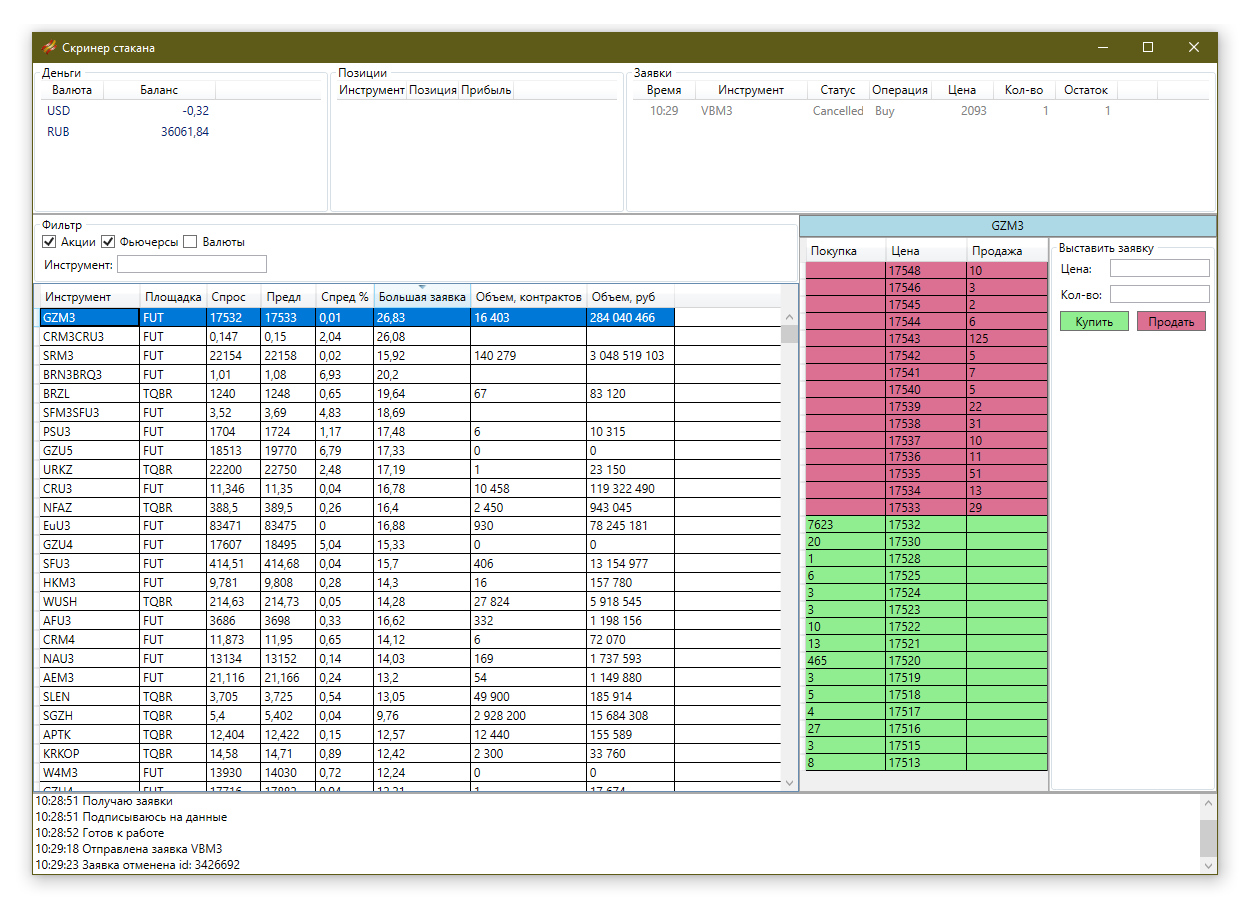
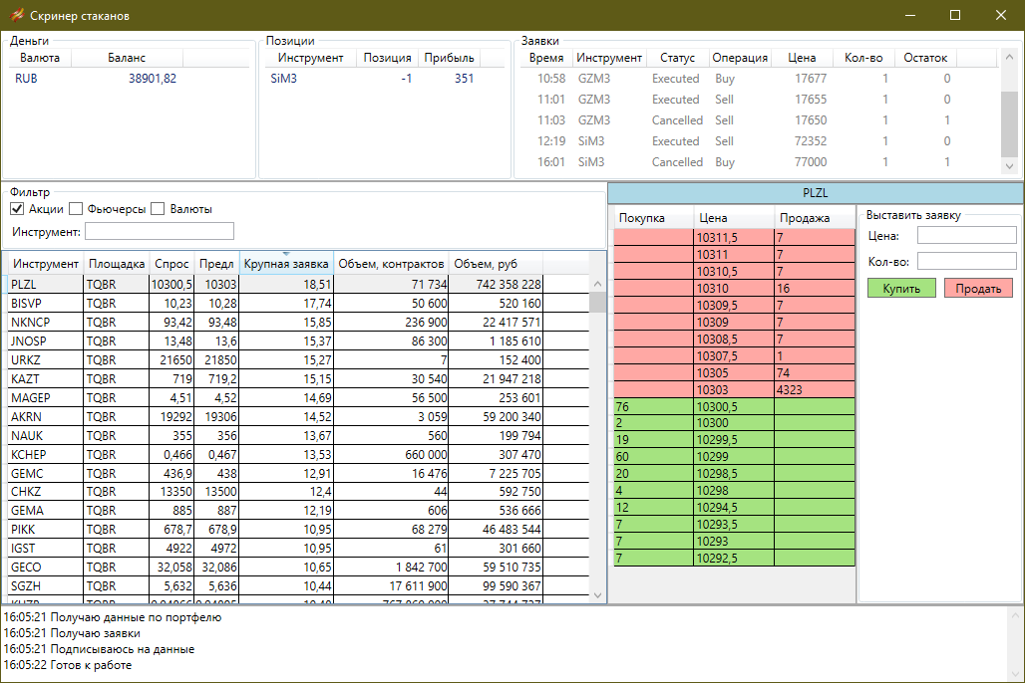
fx

diff --git a/OrderBookScreener/MainWindow.xaml b/OrderBookScreener/MainWindow.xaml
@@ -12,6 +12,9 @@
     </Window.DataContext>
     <Window.Resources>
         <Image x:Key="imgRemove" Source="Images/remove.png" Width="10" Height="10"/>
+        <Style x:Key="CellRight" TargetType="TextBlock">
+            <Setter Property="HorizontalAlignment" Value="Right" />
+        </Style>
     </Window.Resources>
     <Grid>
         <Grid.RowDefinitions>
@@ -57,7 +60,7 @@
                             <GridViewColumn Header="Инструмент">
                                 <GridViewColumn.CellTemplate>
                                     <DataTemplate>
-                                        <TextBlock Text="{Binding Path=Symbol}" MinWidth="100" />
+                                        <TextBlock Text="{Binding Path=Symbol}" MinWidth="80" />
                                     </DataTemplate>
                                 </GridViewColumn.CellTemplate>
                             </GridViewColumn>
@@ -93,7 +96,7 @@
                             <GridViewColumn Header="Инструмент">
                                 <GridViewColumn.CellTemplate>
                                     <DataTemplate>
-                                        <TextBlock Text="{Binding Path=Symbol}" MinWidth="100" />
+                                        <TextBlock Text="{Binding Path=Symbol}" MinWidth="80" />
                                     </DataTemplate>
                                 </GridViewColumn.CellTemplate>
                             </GridViewColumn>
@@ -212,12 +215,17 @@
                     <DataGrid.Columns>
                         <DataGridTextColumn Header="Инструмент" Binding="{Binding Path=SecCode}" IsReadOnly="True" />
                         <DataGridTextColumn Header="Площадка" Binding="{Binding Path=SecBoard}" IsReadOnly="True" />
-                        <DataGridTextColumn Header="Спрос" Binding="{Binding Path=BestBid}" IsReadOnly="True" />
-                        <DataGridTextColumn Header="Предл" Binding="{Binding Path=BestAsk}" IsReadOnly="True" />
-                        <DataGridTextColumn Header="Спред %" Binding="{Binding Path=SpreadPrc}" IsReadOnly="True" />
-                        <DataGridTextColumn Header="Крупная заявка" Binding="{Binding Path=BigQty}" IsReadOnly="True" />
-                        <DataGridTextColumn Header="Объем, контрактов" Binding="{Binding Path=Voltoday, StringFormat=N0}" IsReadOnly="True" />
-                        <DataGridTextColumn Header="Объем, руб" Binding="{Binding Path=Valtoday, StringFormat=N0}" IsReadOnly="True" />
+                        <DataGridTextColumn Header="Спрос" Binding="{Binding Path=BestBid}"
+                                            IsReadOnly="True" ElementStyle="{StaticResource CellRight}" />
+                        <DataGridTextColumn Header="Предл" Binding="{Binding Path=BestAsk}"
+                                            IsReadOnly="True" ElementStyle="{StaticResource CellRight}" />
+                        <!--<DataGridTextColumn Header="Спред %" Binding="{Binding Path=SpreadPrc}" IsReadOnly="True" />-->
+                        <DataGridTextColumn Header="Крупная заявка" Binding="{Binding Path=BigQty}"
+                                            IsReadOnly="True" ElementStyle="{StaticResource CellRight}" />
+                        <DataGridTextColumn Header="Объем, контрактов" Binding="{Binding Path=Voltoday, StringFormat=N0}" 
+                                            IsReadOnly="True" ElementStyle="{StaticResource CellRight}" />
+                        <DataGridTextColumn Header="Объем, руб" Binding="{Binding Path=Valtoday, StringFormat=N0}" 
+                                            IsReadOnly="True" ElementStyle="{StaticResource CellRight}" />
                     </DataGrid.Columns>
                 </DataGrid>
             </Grid>

diff --git a/OrderBookScreener/Connectors/FinamConnector.cs b/OrderBookScreener/Connectors/FinamConnector.cs
@@ -124,6 +124,7 @@ namespace OrderBookScreener.Connectors
                         Currency = item.Name,
                         Balance = item.Balance.Normalize(),
                     };
+                    if (money.Balance < 0) continue;
                     _moneys[money.Currency] = money;
                 }
                 UpdateMoneys?.Invoke();

diff --git a/README.md b/README.md
@@ -1,8 +1,6 @@
 # OrderBookScreener
 Торгово-аналитический терминал на основе Finam Trade API
 
-Программа разработана для участия в хакатоне, категория: «Неторговые разработки на основе Trade API»
-
 Скринер стаканов - позволяет подписываться на большое количество стаканов и искать среди них крупные заявки.
 При этом программа не требовательна к ресурсам компьютера.
 
